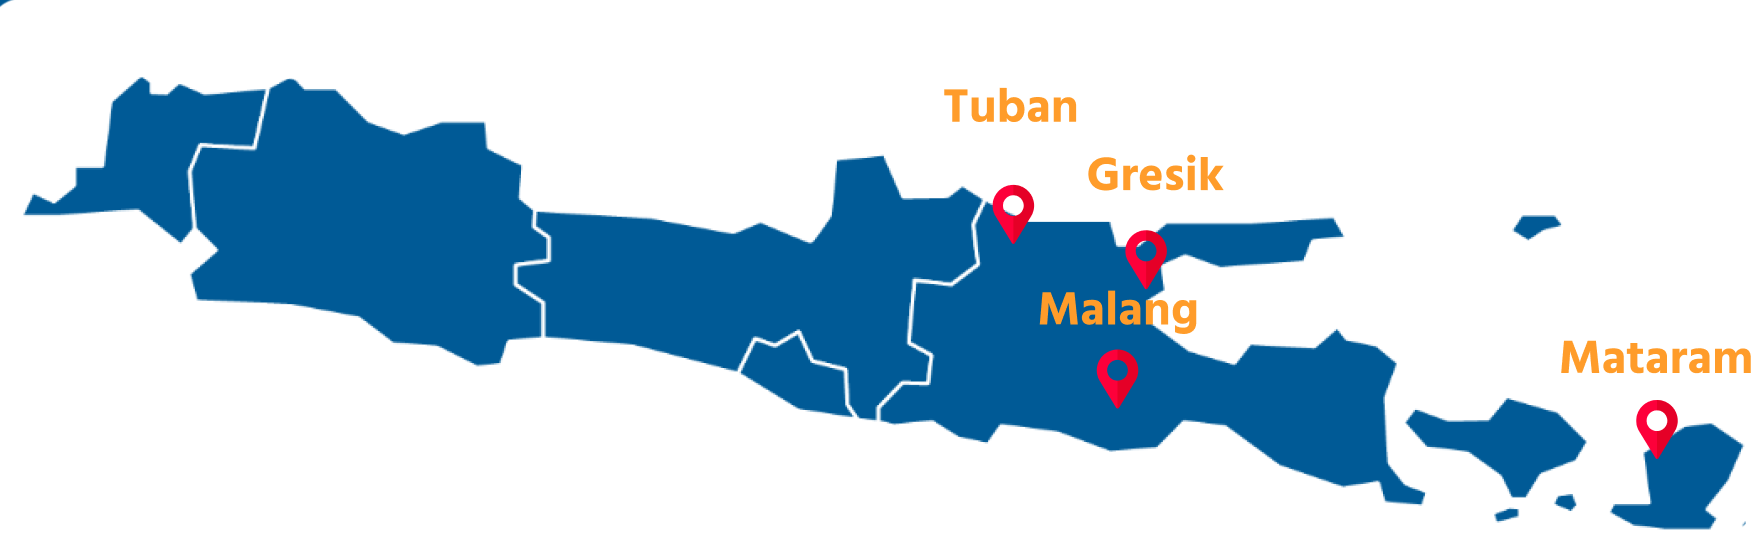
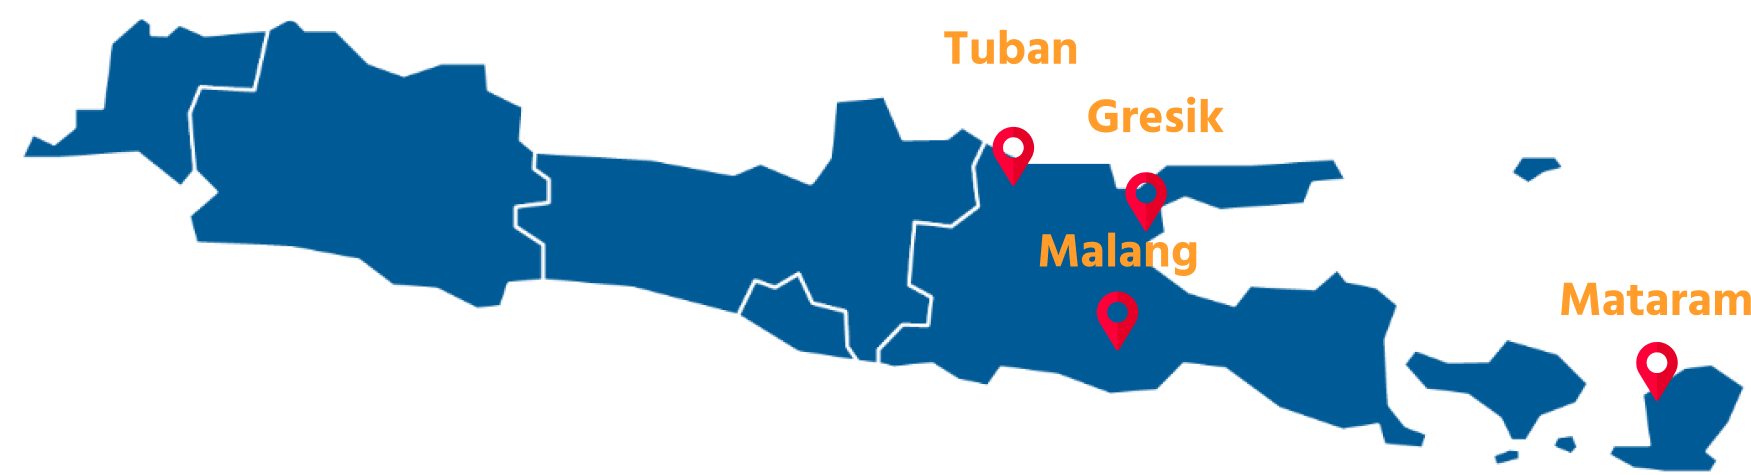
commit

Changed region(s): [[0.0, 0.0295, 1.0, 1.0], [0.5243, 0.0589, 0.6168, 0.1474], [0.8635, 0.3242, 0.8943, 0.4421]]

diff --git a/src/lib/Body.svelte b/src/lib/Body.svelte
@@ -74,6 +74,6 @@
 
 	<div class="flex justify-center flex-col items-center mt-32">
 		<h2 class="text-3xl text-orange-400 font-extrabold">Cabang Kami</h2>
-		<img class="mt-10 w-2/3" src="gambar10.png" alt="" />
+		<img class="my-10 w-2/3" src="gambar10.png" alt="" />
 	</div>
 </div>
